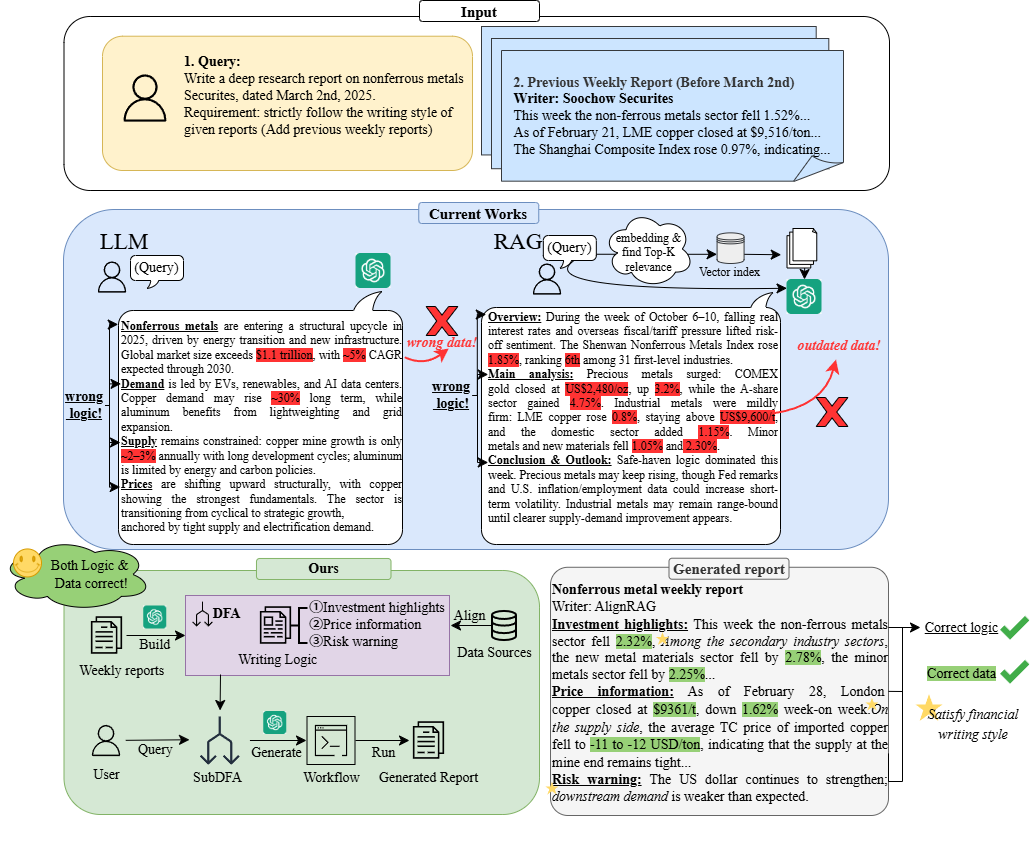
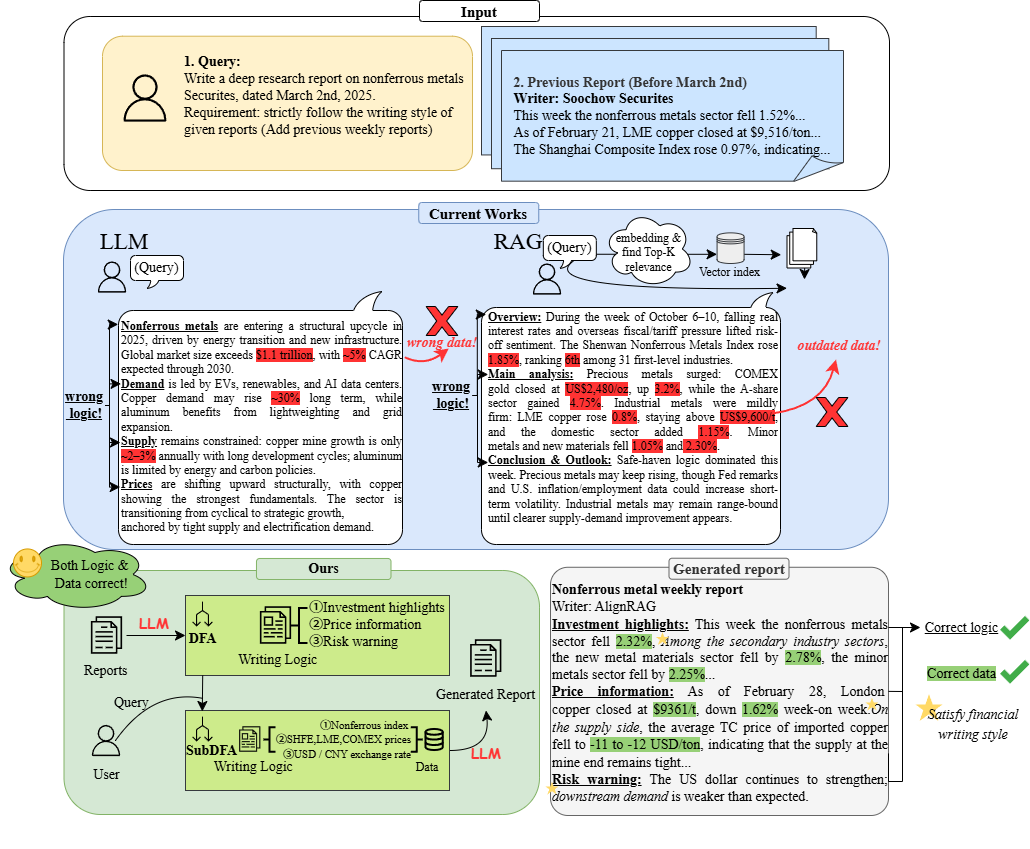
Change the introducion image

diff --git a/document_learner.py b/document_learner.py
@@ -41,7 +41,7 @@ DEFAULT_EMBEDDING_BASE_URL = (
     or "https://dashscope.aliyuncs.com/compatible-mode/v1"
 )
 DEFAULT_EMBEDDING_BATCH_SIZE = int(os.environ.get("LOGICRAG_EMBEDDING_BATCH_SIZE", "10"))
-DEFAULT_THETA = 0.85
+DEFAULT_THETA = 0.5
 LOCAL_EMBEDDING_DIM = 384
 
 
@@ -463,30 +463,7 @@ class StateMatch:
     a_index: int
     b_index: int
     similarity: float
-    reason: str = "embedding"
-    priority: int = 0
-
-
-ENTITY_ALIASES = {
-    "copper": ["铜", "copper", "cu", "伦铜", "沪铜"],
-    "aluminum": ["铝", "aluminum", "aluminium", "al", "伦铝", "沪铝"],
-    "gold": ["黄金", "金价", "贵金属", "gold", "comex", "shfe gold", "沪金", "纽约金"],
-    "cotton": ["棉", "棉花", "cotton", "ice cotton", "郑棉", "美棉"],
-}
-
-ROLE_ALIASES = {
-    "market_review": ["行情回顾", "市场回顾", "market review", "performance review"],
-    "tracking": ["行业跟踪", "品种跟踪", "走势", "价格", "供需", "tracking", "price", "supply", "demand"],
-    "risk": ["风险", "risk"],
-    "strategy": ["策略", "建议", "展望", "strategy", "outlook"],
-}
-
-
-def normalize_for_match(text: str) -> str:
-    text = str(text or "").lower()
-    text = re.sub(r"[\s,.;:，。；：、/\\()（）\\[\\]{}<>《》\"'“”‘’_-]+", "", text)
-    return text
-
+    
 
 def state_match_text(state: Dict[str, Any]) -> str:
     parts = [
@@ -508,7 +485,7 @@ def extract_alias_tags(text: str, alias_map: Dict[str, Sequence[str]]) -> set:
     return tags
 
 
-def lexical_match_reason(state_a: Dict[str, Any], state_b: Dict[str, Any]) -> Tuple[Optional[str], int]:
+
     """Return a non-embedding match reason when two states are clearly equivalent."""
     label_a = normalize_for_match(state_a.get("template_description", ""))
     label_b = normalize_for_match(state_b.get("template_description", ""))
@@ -552,24 +529,15 @@ def match_common_states(
     embeddings_b: Sequence[Sequence[float]],
     theta: float,
 ) -> List[StateMatch]:
-    """Greedily match states that appear in both reports.
 
-    We use embedding similarity as the main signal, but add lexical/structural
-    safeguards so semantically obvious shared states, such as identical labels
-    for copper/aluminum/gold tracking sections, are not over-pruned merely
-    because their detailed descriptions differ across reports.
-    """
     candidates: List[StateMatch] = []
     for i, vec_a in enumerate(embeddings_a):
         for j, vec_b in enumerate(embeddings_b):
             sim = cosine_similarity(vec_a, vec_b)
             reason, priority = lexical_match_reason(states_a[i], states_b[j])
             if sim >= theta:
-                candidates.append(StateMatch(i, j, sim, reason or "embedding", max(priority, 50)))
-            elif reason is not None:
-                candidates.append(StateMatch(i, j, sim, reason, priority))
-
-    candidates.sort(key=lambda m: (m.priority, m.similarity), reverse=True)
+                candidates.append(StateMatch(i, j, sim))
+    candidates.sort(key=lambda m: m.similarity, reverse=True)
     used_a = set()
     used_b = set()
     matches: List[StateMatch] = []
@@ -665,7 +633,6 @@ def build_global_template(
                 {"document_id": seq_b["document_id"], "source_node_id": b.get("node_id")},
             ],
             "match_similarity": round(match.similarity, 6),
-            "match_reason": match.reason,
         }
         nodes.append(node)
 
@@ -722,11 +689,6 @@ def build_global_template(
             },
             "global_state_count": len(nodes),
             "matching_rule": "A state is retained if it is semantically matched in both input reports with cosine similarity >= theta.",
-            "matching_relaxation": (
-                "In addition to embedding similarity, exact labels and clear "
-                "entity-role matches are retained to avoid over-pruning shared "
-                "domain states with different detailed descriptions."
-            ),
         },
     }
 
@@ -790,7 +752,6 @@ def build_embedding_index(
                     "required_materials": node.get("required_materials", []),
                     "support": node.get("support", []),
                     "match_similarity": node.get("match_similarity"),
-                    "match_reason": node.get("match_reason"),
                 },
             }
         )

diff --git a/query_processing.py b/query_processing.py
@@ -29,7 +29,7 @@ from document_learner import (
 
 
 DEFAULT_QUERY = "write a nonferrous metals research report for  March 2, 2025 "
-DEFAULT_TAU = 0.7
+DEFAULT_TAU = 0.5
 
 
 def load_json(path: str | Path) -> Dict[str, Any]: